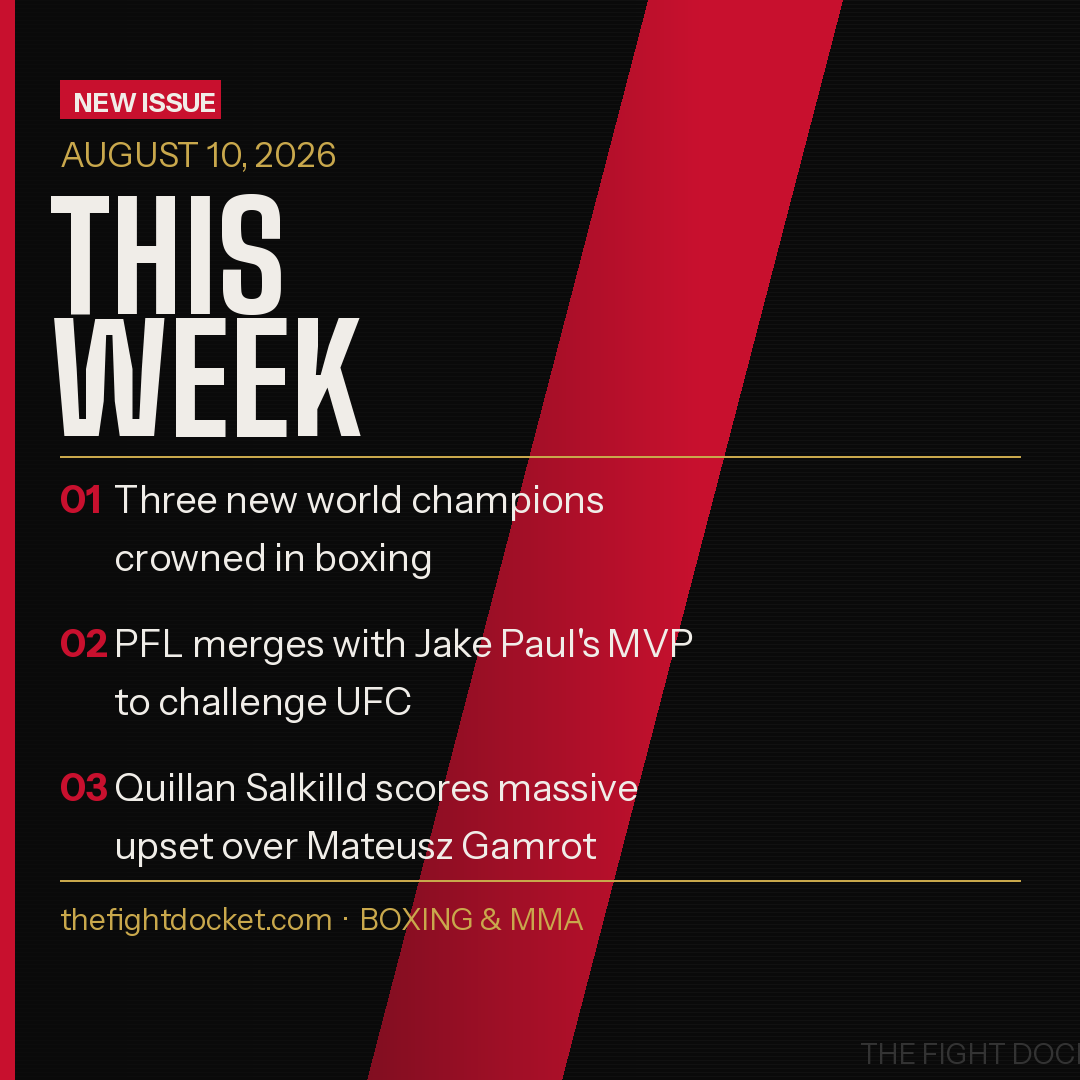
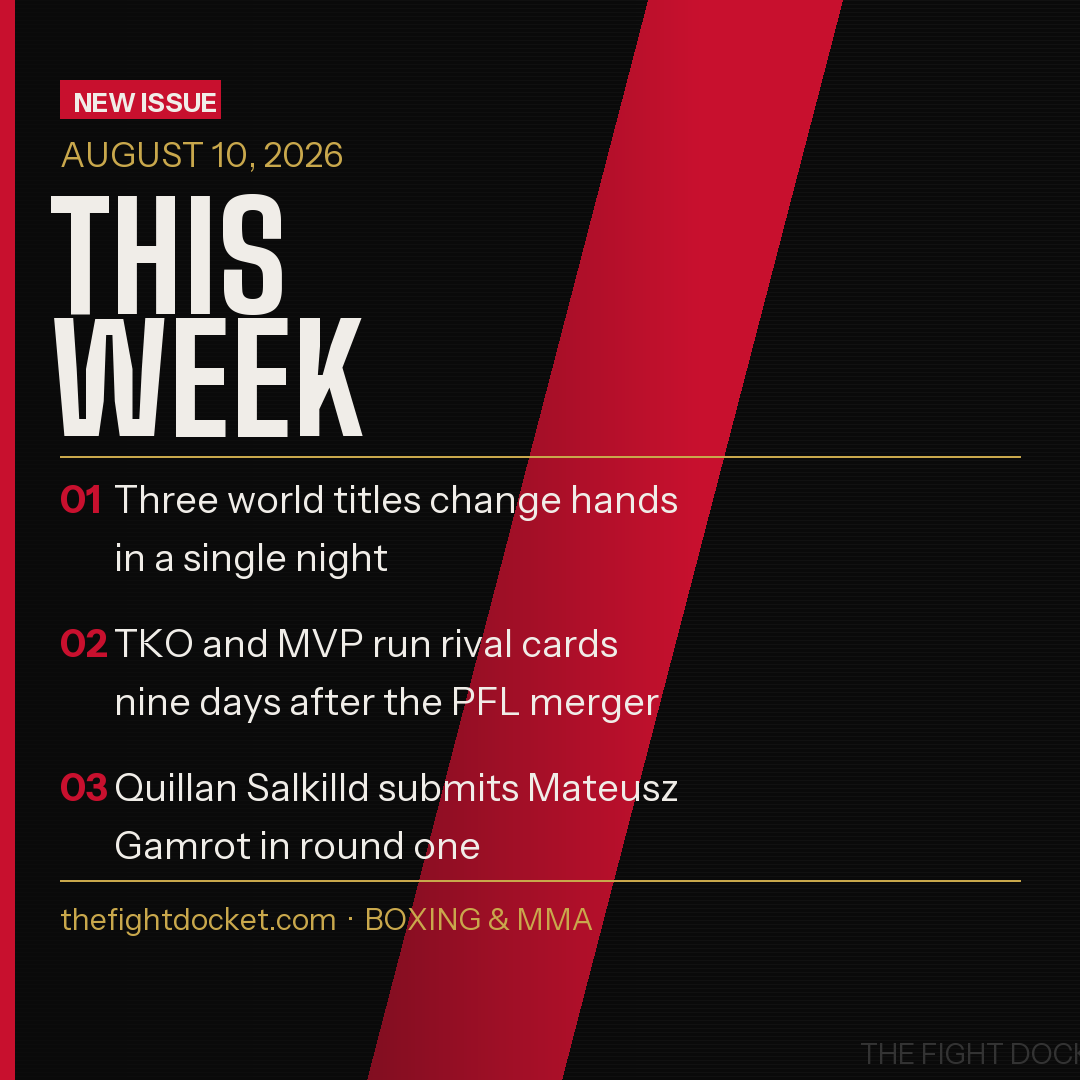
Correct IG content and add Romero vs Lopez to fight previews
The 11am IG job ran off the pre-correction weekly_ig_data.json, so its
cards carried the same bad facts. Regenerated from corrected data.

IG fixes:
- Preview card listed "TKO enters exclusive media rights window with
  ESPN". False, same claim retracted in the newsletter. Replaced with
  the verified $1.55B quarter and the TKO/MVP rival-cards angle.
- Quote card used a profane manager-vs-manager jab attributed vaguely to
  "Ilia Topuria's Manager", framed as a response to a rival promotion.
  That was a misreading of a Malki Kawa / Ali Abdelaziz spat. Replaced
  with a verified Jake Paul line on the MVP merger. Stale Topuria card
  deleted so the mtime fallback cannot resurface it.
- Announcement billed "Lopez Jr."; corrected to Teofimo Lopez.

Newsletter fix: Fight Card Previews claimed no major boxing cards were
finalized. Wrong. Romero vs Lopez for the WBA welterweight title is set
for Aug 22 at T-Mobile Arena, a PBC pay-per-view on DAZN and Prime
Video. Added, with the PPV-versus-subscription contrast against UFC 330.

Verified: Romero 17-2, first defense, elevated to full champion after
Ennis vacated; Lopez 22-2 chasing a third-division title.

diff --git a/newsletter_2026-08-10.inject.js b/newsletter_2026-08-10.inject.js
@@ -82,7 +82,8 @@
         <li style='margin-bottom:8px; line-height:1.7; color:#F2F2E8;'><strong style='color:#F2F2E8;'>Sept. 5</strong> &middot; UFC Fight Night: Hooker vs. Parnasse, Accor Arena, Paris</li>
       </ul>
       <p style='color:#F2F2E8;'>The Shanghai and Paris dates are worth watching as business events rather than sporting ones. Both slot into the international rights strategy laid out in this issue's Business Intel, feeding the same market expansion that produced the Paramount+ Canada and DAZN Germany deals.</p>
-      <p style='color:#F2F2E8;'>No major boxing cards had been finalized as of press time. Check thefightdocket.com Friday evening for the updated slate.</p></div>
+      <p style='color:#F2F2E8;'><strong style='color:#F2F2E8;'>Romero vs. Lopez</strong><br><span style='color:#888;'>Saturday, August 22 &middot; T-Mobile Arena, Las Vegas</span></p>
+      <p style='color:#F2F2E8;'>Rolando Romero makes the first defense of the WBA welterweight title against Teofimo Lopez, and this one runs on the old model: a PBC pay-per-view carried on DAZN and Prime Video. Worth watching precisely because of that contrast. The same weekend the UFC gives away a Fight Night inside a subscription, boxing is still asking for an incremental payment on top of one. Romero is 17-2 and has not fought since taking the vacant belt from Ryan Garcia in Times Square last May; he was elevated to full champion in August after Jaron Ennis vacated. Lopez is 22-2 and chasing a title in a third weight class.</p></div>
     </div>
 <div style="height:1px; background:#C5A059; opacity:0.2; margin:40px 0;"></div>
 <!-- BUSINESS INTEL -->

diff --git a/newsletter_2026-08-10_clean.html b/newsletter_2026-08-10_clean.html
@@ -68,7 +68,8 @@
         <li style='margin-bottom:8px; line-height:1.7; color:#F2F2E8;'><strong style='color:#F2F2E8;'>Sept. 5</strong> &middot; UFC Fight Night: Hooker vs. Parnasse, Accor Arena, Paris</li>
       </ul>
       <p style='color:#F2F2E8;'>The Shanghai and Paris dates are worth watching as business events rather than sporting ones. Both slot into the international rights strategy laid out in this issue's Business Intel, feeding the same market expansion that produced the Paramount+ Canada and DAZN Germany deals.</p>
-      <p style='color:#F2F2E8;'>No major boxing cards had been finalized as of press time. Check thefightdocket.com Friday evening for the updated slate.</p></div>
+      <p style='color:#F2F2E8;'><strong style='color:#F2F2E8;'>Romero vs. Lopez</strong><br><span style='color:#888;'>Saturday, August 22 &middot; T-Mobile Arena, Las Vegas</span></p>
+      <p style='color:#F2F2E8;'>Rolando Romero makes the first defense of the WBA welterweight title against Teofimo Lopez, and this one runs on the old model: a PBC pay-per-view carried on DAZN and Prime Video. Worth watching precisely because of that contrast. The same weekend the UFC gives away a Fight Night inside a subscription, boxing is still asking for an incremental payment on top of one. Romero is 17-2 and has not fought since taking the vacant belt from Ryan Garcia in Times Square last May; he was elevated to full champion in August after Jaron Ennis vacated. Lopez is 22-2 and chasing a title in a third weight class.</p></div>
     </div>
 <div style="height:1px; background:#C5A059; opacity:0.2; margin:40px 0;"></div>
 <!-- BUSINESS INTEL -->

diff --git a/newsletter_2026-08-10.html b/newsletter_2026-08-10.html
@@ -106,7 +106,8 @@
         <li style='margin-bottom:8px; line-height:1.7; color:#F2F2E8;'><strong style='color:#F2F2E8;'>Sept. 5</strong> &middot; UFC Fight Night: Hooker vs. Parnasse, Accor Arena, Paris</li>
       </ul>
       <p style='color:#F2F2E8;'>The Shanghai and Paris dates are worth watching as business events rather than sporting ones. Both slot into the international rights strategy laid out in this issue's Business Intel, feeding the same market expansion that produced the Paramount+ Canada and DAZN Germany deals.</p>
-      <p style='color:#F2F2E8;'>No major boxing cards had been finalized as of press time. Check thefightdocket.com Friday evening for the updated slate.</p></div>
+      <p style='color:#F2F2E8;'><strong style='color:#F2F2E8;'>Romero vs. Lopez</strong><br><span style='color:#888;'>Saturday, August 22 &middot; T-Mobile Arena, Las Vegas</span></p>
+      <p style='color:#F2F2E8;'>Rolando Romero makes the first defense of the WBA welterweight title against Teofimo Lopez, and this one runs on the old model: a PBC pay-per-view carried on DAZN and Prime Video. Worth watching precisely because of that contrast. The same weekend the UFC gives away a Fight Night inside a subscription, boxing is still asking for an incremental payment on top of one. Romero is 17-2 and has not fought since taking the vacant belt from Ryan Garcia in Times Square last May; he was elevated to full champion in August after Jaron Ennis vacated. Lopez is 22-2 and chasing a title in a third weight class.</p></div>
     </div>
 
     <div style="height:1px; background:#C5A059; opacity:0.2; margin:40px 0;"></div>
